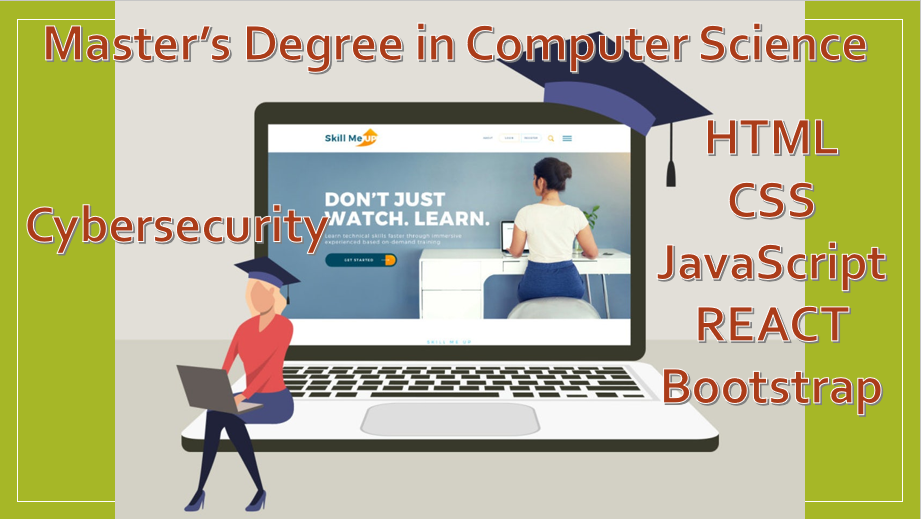
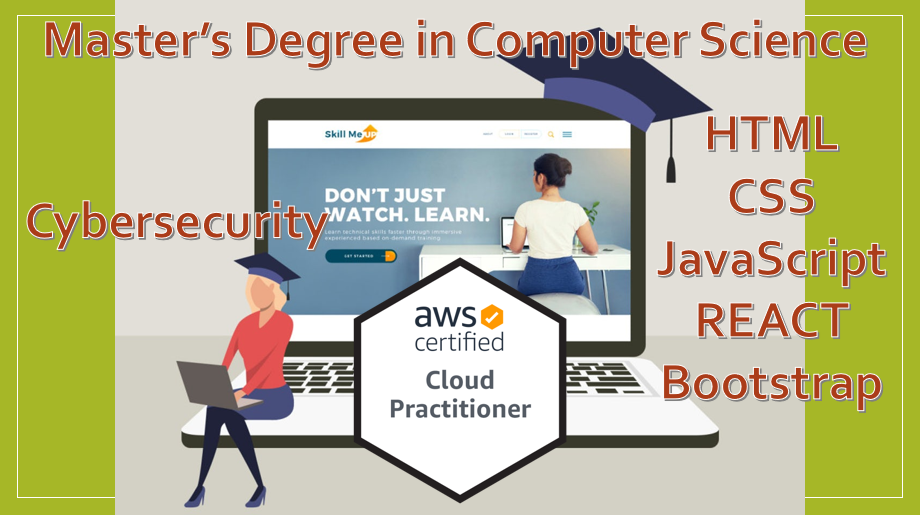
After AWS Certification

diff --git a/index.html b/index.html
@@ -196,10 +196,10 @@
                     <h2 class="text-info">Skills</h2>
                     <p>
                       <ol>
+                        <li class="text-primary">AWS Certified Cloud Practitioner <a href="https://www.credly.com/badges/4fc7ad02-df87-469a-9099-9fad32163a1c/public_url">(Verify)</a></li>
                         <li class="text-primary">Acquired skills on end-to-end web-development using HTML5, CSS, JavaScript Bootstrap and REACT.</li>
                         <li class="text-primary">Strong hands on experience using git and GitHub.</li>
-						<li class="text-primary">Experience in Monitoring Security data and generate analytical reports, alerts, and dashboard using Splunk</li>
-                        <li class="text-primary">...</li>
+						            <li class="text-primary">Experience in Monitoring Security data and generate analytical reports, alerts, and dashboard using Splunk</li>
                       </ol>
                     </p>
                     <p>
@@ -390,6 +390,7 @@
                     <strong>Web Development Skills</strong>
                   </div>
                   <ul class="list-group list-group-flush">
+                    <li class="list-group-item">AWS Certified Cloud Practitioner<a href="https://www.credly.com/badges/4fc7ad02-df87-469a-9099-9fad32163a1c/public_url">(Verify)</a></li>
                     <li class="list-group-item">HTML5</li>
                     <li class="list-group-item">CSS3</li>
                     <li class="list-group-item">JavaScript</li>
